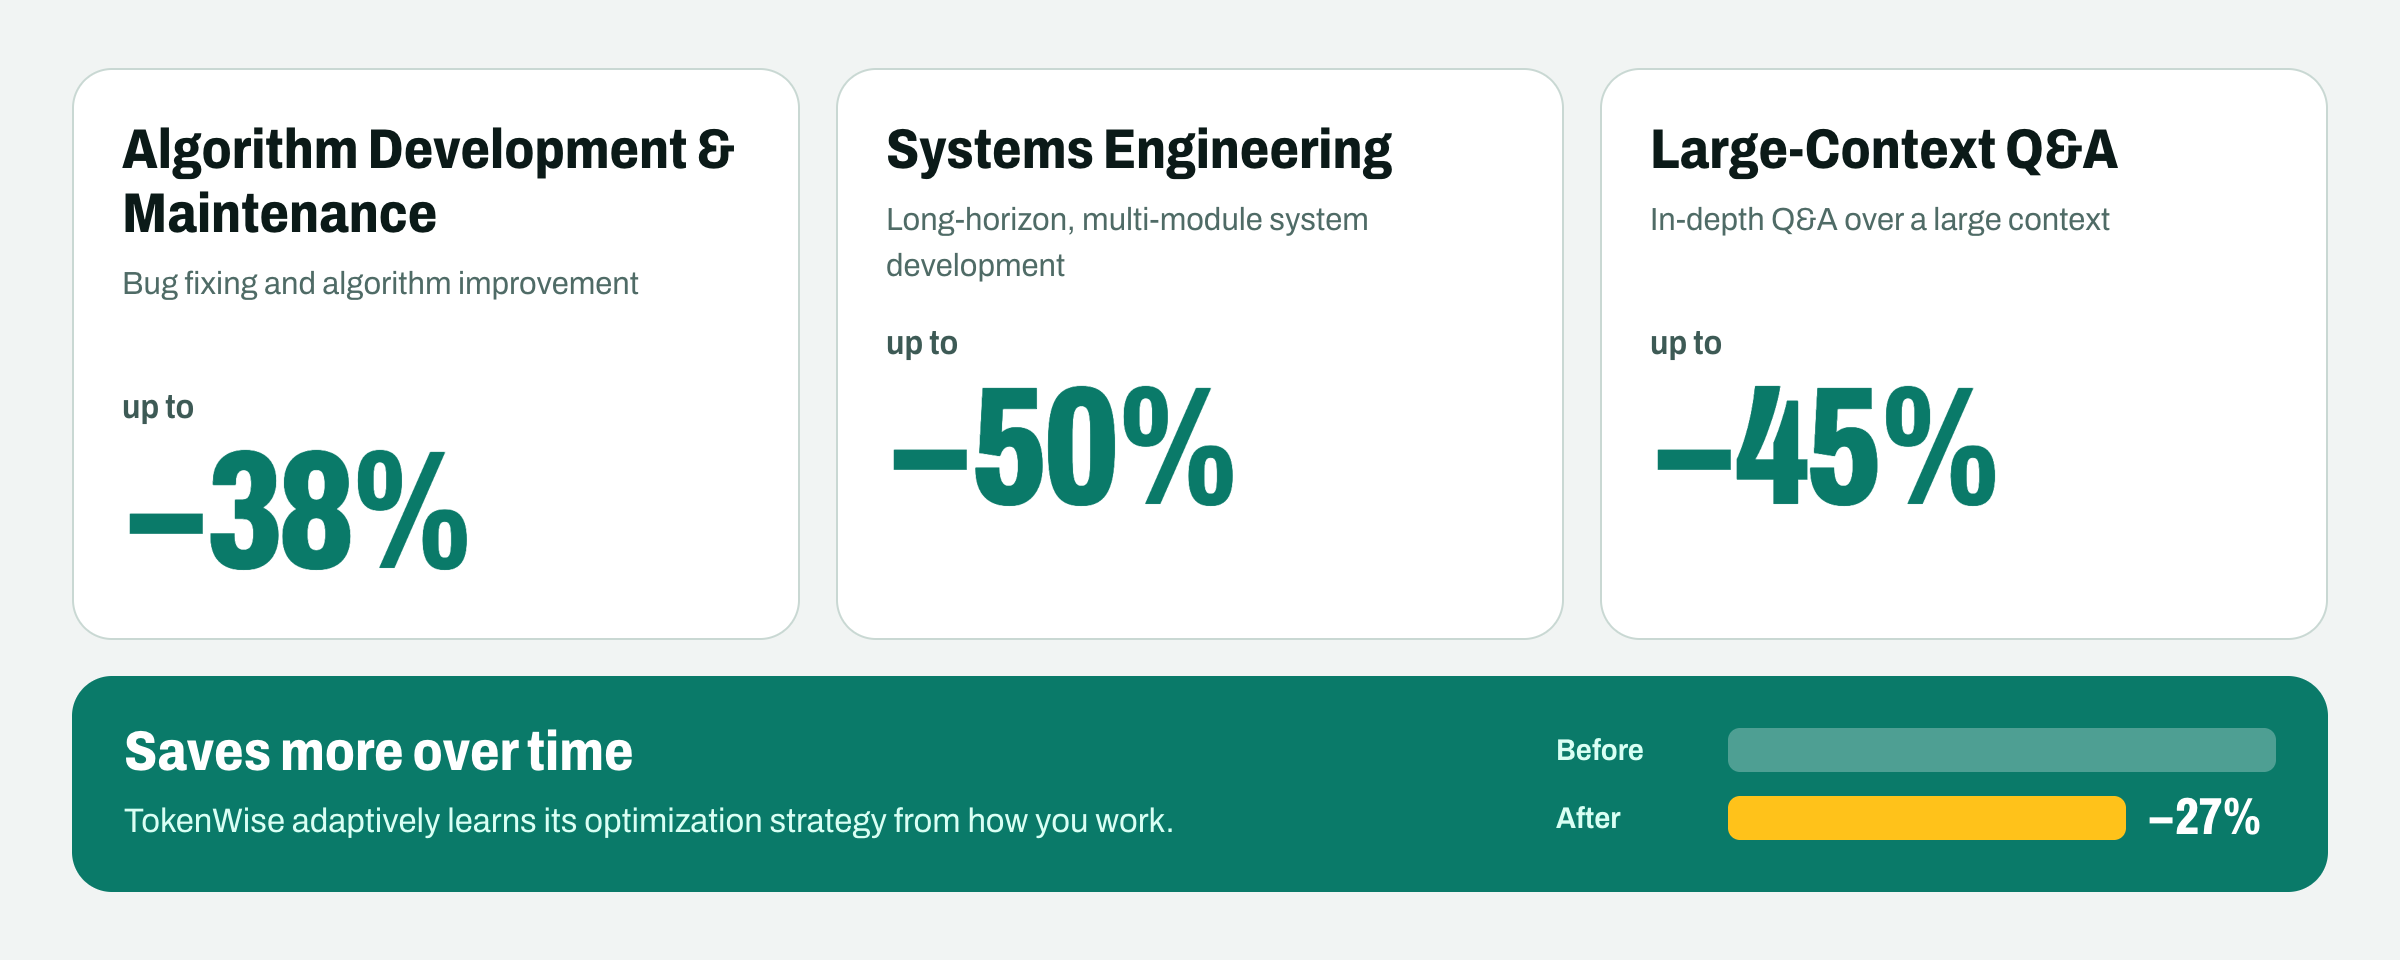
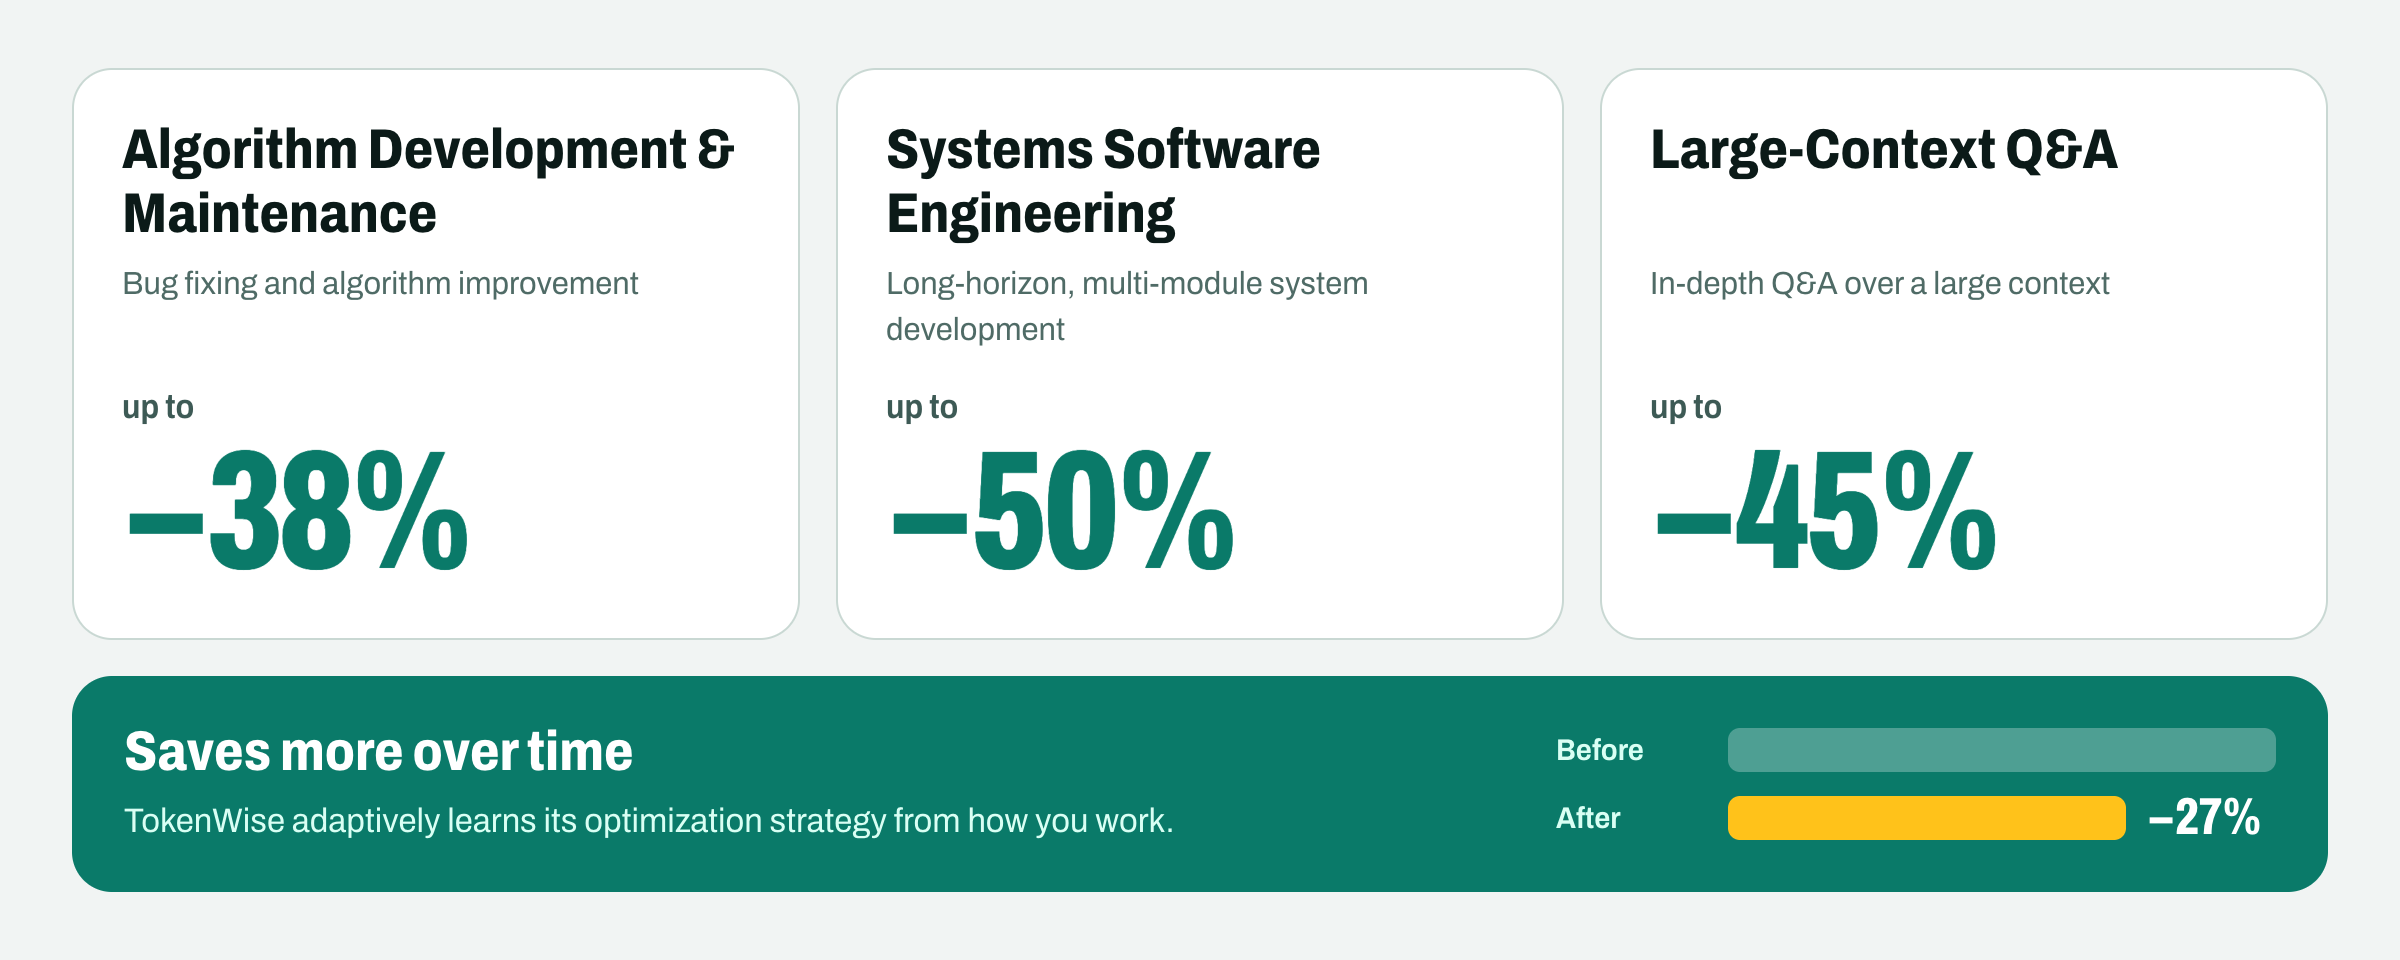
Savings chart: "Systems Software Engineering"
The English title of the second tile names the software kind of systems
engineering; titles take two lines in English so the three numbers line up.

diff --git a/media/src/savings.html b/media/src/savings.html
@@ -9,6 +9,8 @@
   .card { background: #fff; border: 1px solid var(--rule); border-radius: 20px; padding: 24px 24px 22px; display: flex; flex-direction: column; }
   .card h3 { font-weight: 780; font-stretch: 84%; font-size: 28px; line-height: 1.15; color: var(--ink); }
   .zh .card h3 { font-stretch: 100%; font-size: 27px; }
+  /* English titles may wrap to two lines: give every title two, so the numbers line up. */
+  body:not(.zh) .card h3 { min-height: 2.3em; }
   .card p { margin-top: 8px; color: #4F6B66; font-size: 16px; line-height: 1.4; font-stretch: 96%; min-height: 2.8em; }
   .hero { margin-top: 18px; display: flex; flex-direction: column; gap: 4px; color: var(--teal); }
   .hero small { font-size: 17px; font-weight: 650; font-stretch: 90%; color: #3D5A55; }
@@ -52,7 +54,7 @@ const T = zh ? {
 } : {
   upto: 'up to',
   cards: [['everyday', 'Algorithm Development & Maintenance', 'Bug fixing and algorithm improvement'],
-    ['longHorizon', 'Systems Engineering', 'Long-horizon, multi-module system development'],
+    ['longHorizon', 'Systems Software Engineering', 'Long-horizon, multi-module system development'],
     ['qa', 'Large-Context Q&A', 'In-depth Q&A over a large context']],
   learn: 'Saves more over time',
   learnText: 'TokenWise adaptively learns its optimization strategy from how you work.',

diff --git a/README.md b/README.md
@@ -40,7 +40,7 @@ Today's agents face:
 
 ## 📊 Results
 
-<p align="center"><img src="media/images/savings.png" alt="Algorithm development and maintenance (bug fixing and algorithm improvement): up to 38% fewer tokens. Systems engineering (long-horizon, multi-module system development): up to 50%. Large-context Q&amp;A (in-depth Q&amp;A over a large context): up to 45%. Saves more over time: TokenWise adaptively learns its optimization strategy; after learning, up to 27% fewer tokens than before." width="100%"></p>
+<p align="center"><img src="media/images/savings.png" alt="Algorithm development and maintenance (bug fixing and algorithm improvement): up to 38% fewer tokens. Systems software engineering (long-horizon, multi-module system development): up to 50%. Large-context Q&amp;A (in-depth Q&amp;A over a large context): up to 45%. Saves more over time: TokenWise adaptively learns its optimization strategy; after learning, up to 27% fewer tokens than before." width="100%"></p>
 
 <sub>From our paper's evaluation; the paper is coming soon.</sub>
 
